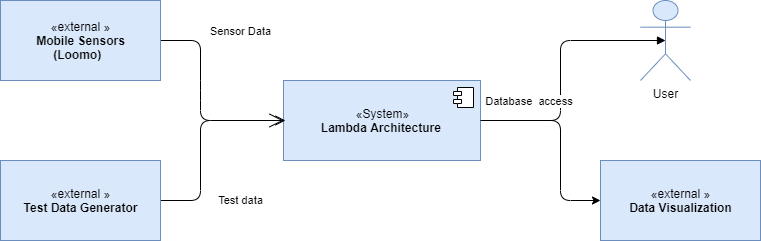
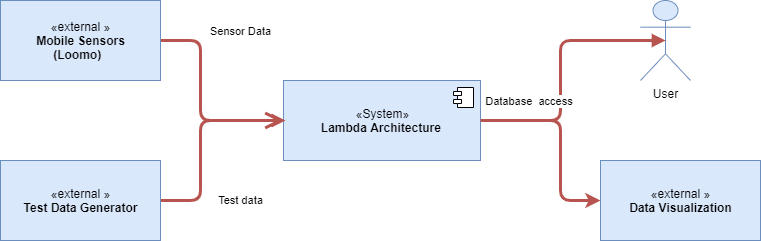
doc: updated BussniesContext

Changed region(s): [[0.2116, 0.1452, 0.3929, 0.8423], [0.6347, 0.4647, 0.7858, 0.8714], [0.7254, 0.1452, 0.8765, 0.3776]]

diff --git a/README.md b/README.md
@@ -38,7 +38,7 @@ System Scope and Context
 Business Context
 ----------------
 
-![](https://github.com/Akardian/lambda-architecture-for-distributed-mobile-sensor/blob/master/images/BusinessContext.png?raw=true)
+![](https://github.com/Akardian/lambda-architecture-for-distributed-mobile-sensor/blob/master/images/1-1BusinessContext.png?raw=true)
 <sub>Figure 1. Business Context</sub>
 
 | Component           | Explanation                                                   |
